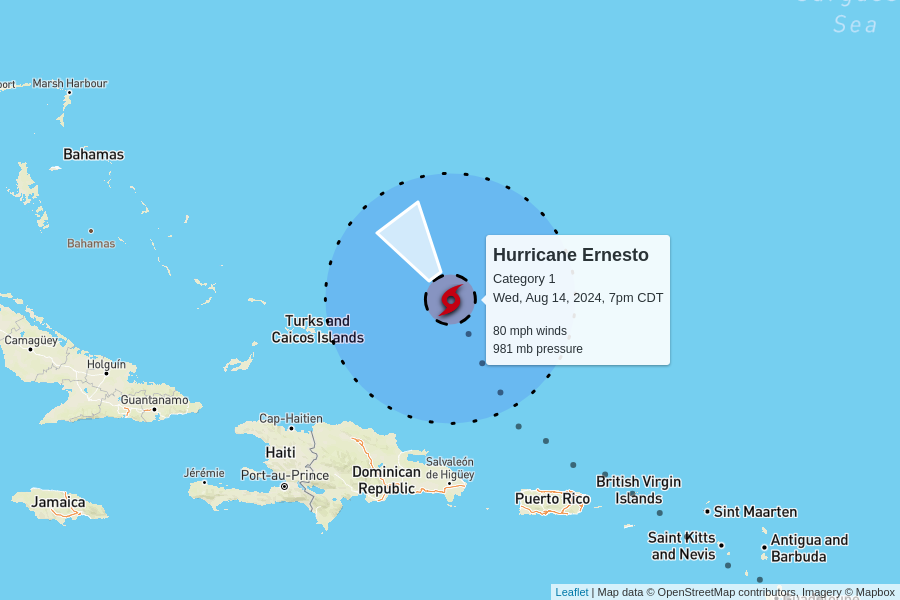
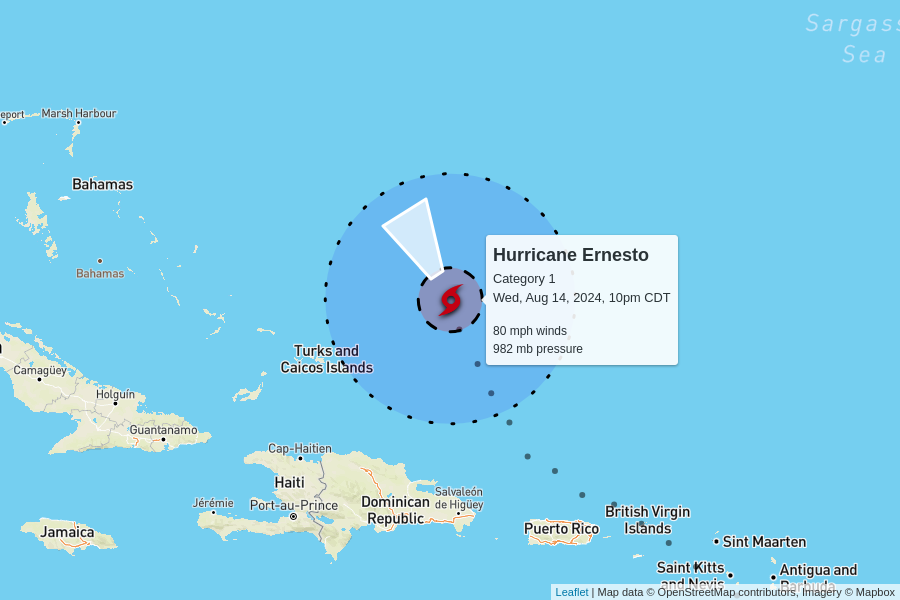
automatic update

diff --git a/docs/index.html b/docs/index.html
@@ -102,7 +102,7 @@
         <td colspan="6" class="storm category-1" >
           <h2>
             Hurricane Ernesto - Category 1
-            <p class="updated">last updated <span data-time>2024-08-15T00:00:00.000Z</span></p>
+            <p class="updated">last updated <span data-time>2024-08-15T03:00:00.000Z</span></p>
           </h2>
         </td>
       </tr>
@@ -117,12 +117,12 @@
       </tr>
       <tr>
         <td class="spacer"></td>
-        <td>80 mph<br>+5 mph since last update</td>
-        <td>981 mb<br>-8 mb since last update</td>
+        <td>80 mph<br>0 mph since last update</td>
+        <td>982 mb<br>+1 mb since last update</td>
         <td>
-          16 mph to the northwest
+          16 mph to the north-northwest
           <br/>
-          <span style="display: inline-block; font-size: 1.5em; transform: rotate(325deg);">↑</span>
+          <span style="display: inline-block; font-size: 1.5em; transform: rotate(330deg);">↑</span>
         </td>
         <td><a href="https://raw.githubusercontent.com/mgwalker/atlantic-hurricanes/main/data/csv/AL052024.csv">AL052024.csv</a></td>
         <td><a href="https://www.nhc.noaa.gov/archive/2024/ERNESTO.shtml?">NHC advisories</a></td>
